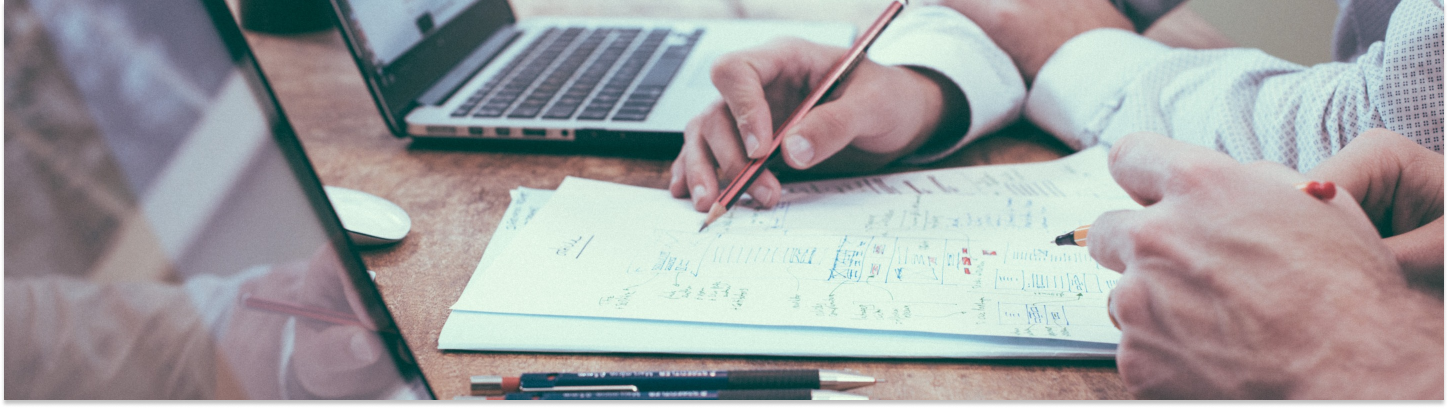
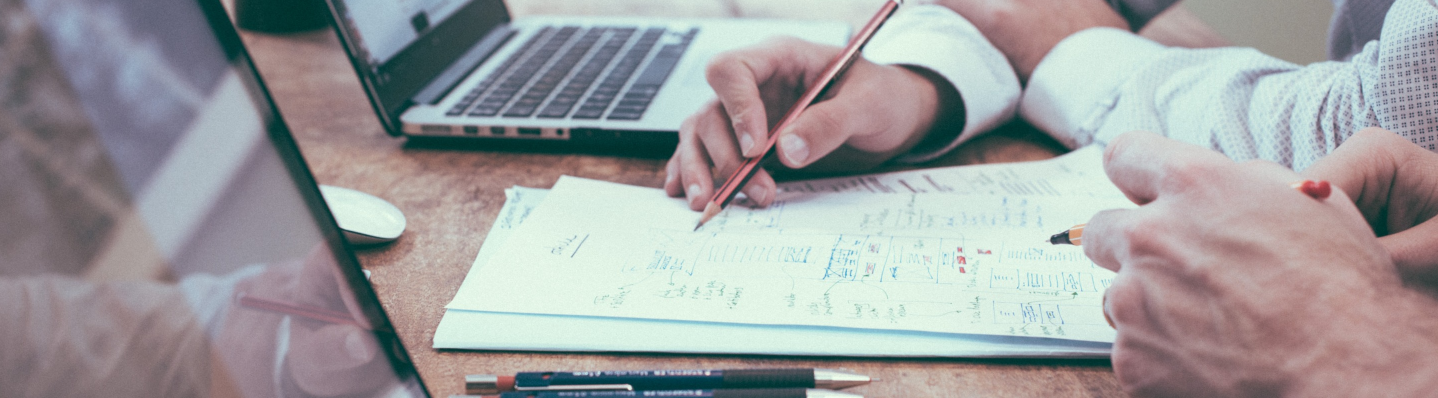
Correções na página sobre
- Após mudar a estrutura dos arquivos, estilos da página sobre não estava funcionando.
- Imagem da pagina Sobre excedendo os limites laterais da tela

diff --git a/src/pages/Sobre/Sobre.js b/src/pages/Sobre/Sobre.js
@@ -1,30 +1,24 @@
 import React from 'react';
-import image from '../../assets/img_backgorund_sobre.png';
-import './Sobre.css'
-
-const containerStyle = {
-  display: 'flex',
-  alignItems: 'center',
-  marginTop: '50px',
-  marginLeft: '40px',
-};
+import './Sobre.css';
 
 export const Sobre = () => {
   return (
     <div>
-      <div >
-        <div className='imagemStyle'>
-          <img src={image}  alt="Sobre nós" />
-          <div className='sobreNosTextoStyle'>Sobre nós</div>
+      <div>
+        <div className="imageStyle">
+          <div className="sobreNosTexto">Sobre nós</div>
         </div>
-        <div className="d-flex" style={containerStyle}>
-          <div className='retanguloStyle'></div>
-          <div className='tituloContainerStyle'>
-            <h1 className='tituloStyle'>Somos a Hermes IA e acreditamos que a tecnologia deve ser usada para o bem da humanidade.</h1>
+        <div className="d-flex containerStyle">
+          <div className="retanguloStyle"></div>
+          <div className="tituloContainerStyle">
+            <h1 className="tituloStyle">
+              Somos a Hermes IA e acreditamos que a tecnologia deve ser usada para o bem da humanidade.
+            </h1>
           </div>
         </div>
-        <p className='paragrafoStyle'>Nossa missão é auxiliar os médicos a salvarem vidas através da aplicação da inteligência artificial na detecção precoce e precisa de doenças pulmonares
-           e criar um mundo onde essas doenças possam ser diagnosticadas e tratadas com rapidez, melhorando a qualidade de vida de milhões de pessoas.</p>
+        <p className="paragrafoStyle">
+          Nossa missão é auxiliar os médicos a salvarem vidas através da aplicação da inteligência artificial na detecção precoce e precisa de doenças pulmonares e criar um mundo onde essas doenças possam ser diagnosticadas e tratadas com rapidez, melhorando a qualidade de vida de milhões de pessoas.
+        </p>
       </div>
     </div>
   );

diff --git a/src/pages/Sobre/Sobre.css b/src/pages/Sobre/Sobre.css
@@ -1,37 +1,52 @@
-.retanguloStyle{
-    width: '9px';
-    height: '188px';
+
+.imageStyle {
+    background-image: url('../../assets/img_backgorund_sobre.png');
+    height: 400px;
+    width: 100%;
+    background-position: center;
+    background-size: cover;
+    position: relative;
+
+  }
+  
+  .sobreNosTexto {
+    position: absolute;
+    bottom: 40px;
+    left: 30px;
+    font-size: 40px;
+    font-weight: bold;
+    color: white;
+  }
+  
+  .containerStyle {
+    display: flex;
+    align-items: center;
+    margin-top: 50px;
+    margin-left: 40px;
+  }
+  
+  .retanguloStyle {
+    width: 9px;
+    height: 188px;
     flex-shrink: 0;
-    background-color: '#0B2A45';
-};
-
-.tituloStyle{
-    font-size: '25px';
-    text-align: 'center';
-    margin-left: '20px';
-};
-
-.tituloContainerStyle{
-    display: 'flex';
-    align-items: 'center';
-};
-
-.paragrafoStyle{
-    margin-top: '40px';
-    margin-left: '40px';
-    margin-bottom: '100px';
-    font-size: '20px';
-};
-
-.imagemStyle{
-    position: 'relative';
-};
-
-.sobreNosTextoStyle{
-    position: 'absolute';
-    bottom: '40px'; 
-    left: '30px'; 
-    font-size: '40px';
-    font-weight: 'bold';
-    color: 'white';
-};
+    background-color: #0B2A45;
+  }
+  
+  .tituloStyle {
+    font-size: 25px;
+    text-align: center;
+    margin-left: 20px;
+  }
+  
+  .tituloContainerStyle {
+    display: flex;
+    align-items: center;
+  }
+  
+  .paragrafoStyle {
+    margin-top: 40px;
+    margin-left: 40px;
+    margin-bottom: 100px;
+    font-size: 20px;
+  }
+  
